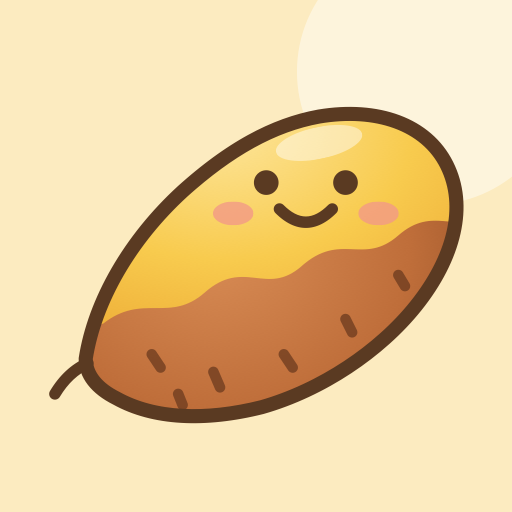
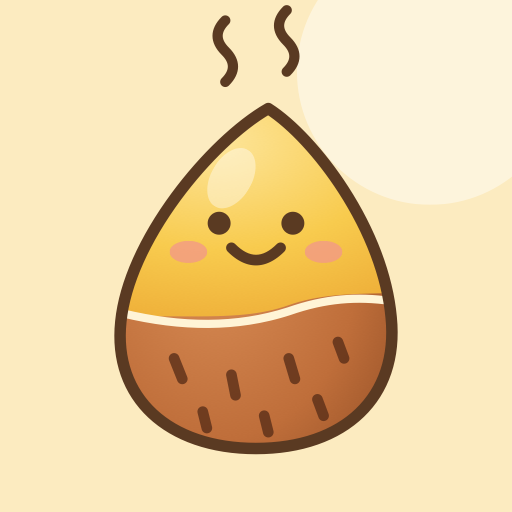
Reshape the sweet potato into an upright teardrop
Pointed top and round bottom, yellow flesh over brown skin with short
streaks, a light rim between them, and steam above the home illustration.
The app icon uses the same shape.

diff --git a/index.html b/index.html
@@ -110,7 +110,7 @@ details.prev pre{margin:0;padding:0 18px 16px;font-family:inherit;font-size:14px
       <feTurbulence type="fractalNoise" baseFrequency="0.04" numOctaves="2" seed="4" result="n"/>
       <feDisplacementMap in="SourceGraphic" in2="n" scale="2.4" xChannelSelector="R" yChannelSelector="G"/>
     </filter>
-    <clipPath id="bodyClip"><path d="M9 71C11 58 19 44 31 33C41 24 51 18 62 16C74 14 86 17 91 27C96 37 92 49 84 59C76 69 63 78 49 82C37 85 25 85 16 80C12 78 9 75 9 71Z"/></clipPath>
+    <clipPath id="bodyClip"><path d="M53 9C64 16 81 38 83 60C85 80 71 92 50 92C29 92 15 80 17 61C19 41 39 17 53 9Z"/></clipPath>
     <radialGradient id="gFlesh" cx="40%" cy="28%" r="72%"><stop offset="0" stop-color="#FDE59A"/><stop offset=".6" stop-color="#F8CB4E"/><stop offset="1" stop-color="#EFB13A"/></radialGradient>
     <radialGradient id="gSkin" cx="35%" cy="45%" r="75%"><stop offset="0" stop-color="#D88C55"/><stop offset=".7" stop-color="#BF6E3A"/><stop offset="1" stop-color="#A35A2D"/></radialGradient>
   </defs>
@@ -312,9 +312,9 @@ details.prev pre{margin:0;padding:0 18px 16px;font-family:inherit;font-size:14px
 
   // ---------- 地瓜插畫 ----------
   var LINE = '#5A3A22';
-  // 地瓜：一頭胖一頭尖、斜放、表面有點凹凸
-  var BODY = 'M9 71C11 58 19 44 31 33C41 24 51 18 62 16C74 14 86 17 91 27C96 37 92 49 84 59C76 69 63 78 49 82C37 85 25 85 16 80C12 78 9 75 9 71Z';
-  var FLESH = 'M0 0H100V38C93 43 88 36 80 43C72 50 67 42 58 50C50 57 45 48 36 56C28 63 22 56 13 63L0 68Z';
+  // 地瓜：直立的水滴形，上尖下圓，上半黃肉、下半帶紋路的皮
+  var BODY = 'M53 9C64 16 81 38 83 60C85 80 71 92 50 92C29 92 15 80 17 61C19 41 39 17 53 9Z';
+  var FLESH = 'M0 0H100V52C88 56 72 52 58 57C44 62 28 58 0 61Z';
   var FACES = {
     smile: '<circle cx="41" cy="35" r="2.8" fill="'+LINE+'"/><circle cx="59" cy="35" r="2.8" fill="'+LINE+'"/><path d="M44 41q6 6 12 0" fill="none" stroke="'+LINE+'" stroke-width="2.6" stroke-linecap="round"/>',
     happy: '<path d="M37 36q4-4.5 8 0M55 36q4-4.5 8 0" fill="none" stroke="'+LINE+'" stroke-width="2.6" stroke-linecap="round"/><path d="M43.5 40.5h13q-1 9-6.5 9t-6.5-9z" fill="#B5473A" stroke="'+LINE+'" stroke-width="2.2" stroke-linejoin="round"/>',
@@ -324,12 +324,12 @@ details.prev pre{margin:0;padding:0 18px 16px;font-family:inherit;font-size:14px
   function potato(face){
     return '<path d="'+BODY+'" fill="url(#gSkin)"/>' +
       '<path d="'+FLESH+'" fill="url(#gFlesh)" clip-path="url(#bodyClip)"/>' +
-      '<ellipse cx="62" cy="22" rx="10" ry="3.6" fill="#fff" opacity=".45" transform="rotate(-12 62 22)"/>' +
-      '<path d="M24 70l2 3M38 74l1.5 3.5M54 70l2 3M68 62l1.5 3M30 79l1 2.5M80 52l1.5 2.5" stroke="#6B3A1E" stroke-width="2.4" stroke-linecap="round" opacity=".75"/>' +
-      '<g transform="translate(9 -4)"><ellipse cx="33.5" cy="42" rx="4.6" ry="2.7" fill="#F29A86" opacity=".8"/><ellipse cx="66.5" cy="42" rx="4.6" ry="2.7" fill="#F29A86" opacity=".8"/>' +
-      FACES[face||'smile'] + '</g>' +
-      '<path d="M9.5 72Q5 74 2 79" fill="none" stroke="'+LINE+'" stroke-width="2.6" stroke-linecap="round"/>' +
-      '<path d="'+BODY+'" fill="none" stroke="'+LINE+'" stroke-width="3.2" stroke-linejoin="round"/>';
+      '<path d="M17.5 59C30 62 44 63 58 58.5C68 55 76 55 83 56" fill="none" stroke="#FFF4D6" stroke-width="2" stroke-linecap="round" opacity=".9" clip-path="url(#bodyClip)"/>' +
+      '<ellipse cx="44" cy="26" rx="5" ry="8" fill="#fff" opacity=".4" transform="rotate(30 44 26)"/>' +
+      '<path d="M30 70l2 5M44 74l1 5M58 70l1.5 5M70 66l1.5 4M37 83l1 4M52 84l1 4M65 80l1.5 4" stroke="#5A2E18" stroke-width="2.6" stroke-linecap="round" opacity=".8"/>' +
+      '<ellipse cx="33.5" cy="44" rx="4.6" ry="2.7" fill="#F29A86" opacity=".8"/><ellipse cx="66.5" cy="44" rx="4.6" ry="2.7" fill="#F29A86" opacity=".8"/>' +
+      '<g transform="translate(0 2)">' + FACES[face||'smile'] + '</g>' +
+      '<path d="'+BODY+'" fill="none" stroke="'+LINE+'" stroke-width="2.8" stroke-linejoin="round"/>';
   }
   function sparkle(cx, cy, r){ return '<path d="M'+cx+' '+(cy-r)+'Q'+cx+' '+cy+' '+(cx+r)+' '+cy+'Q'+cx+' '+cy+' '+cx+' '+(cy+r)+'Q'+cx+' '+cy+' '+(cx-r)+' '+cy+'Q'+cx+' '+cy+' '+cx+' '+(cy-r)+'Z" fill="#F6C64A" stroke="#D99A26" stroke-width="1.4" stroke-linejoin="round"/>'; }
   function at(tx, ty, s, inner){ return '<g transform="translate('+tx+' '+ty+') scale('+s+')">'+inner+'</g>'; }
@@ -375,7 +375,7 @@ details.prev pre{margin:0;padding:0 18px 16px;font-family:inherit;font-size:14px
       '<rect x="15" y="25" width="16" height="9" rx="3" fill="#CFC6BB" stroke="'+LINE+'" stroke-width="2"/>' +
       '<path d="M10 47l3 3 5-6M10 62l3 3 5-6" fill="none" stroke="'+ACT+'" stroke-width="2.6" stroke-linecap="round" stroke-linejoin="round"/>' +
       '<path d="M23 48h13M23 63h13M10 74h26" stroke="#CDB9A3" stroke-width="2.2" stroke-linecap="round"/>',
-    star: potato('smile') + sparkle(86, 16, 8) + sparkle(13, 22, 6) + sparkle(92, 40, 4.5)
+    star: at(8,14,.84, potato('smile')) + '<path d="M44 2q-4 4 0 8t0 8M56 0q-4 4 0 8t0 8" fill="none" stroke="'+LINE+'" stroke-width="2.4" stroke-linecap="round"/>' + sparkle(88, 30, 7) + sparkle(12, 40, 5)
   };
   var ICON_LABEL = { bowl:'飲食', lift:'重訓', weigh:'體重', water:'補水', sleep:'睡眠', stretch:'伸展', run:'有氧', heart:'身心', plan:'計畫', star:'其他' };
   function art(key, size, label){
